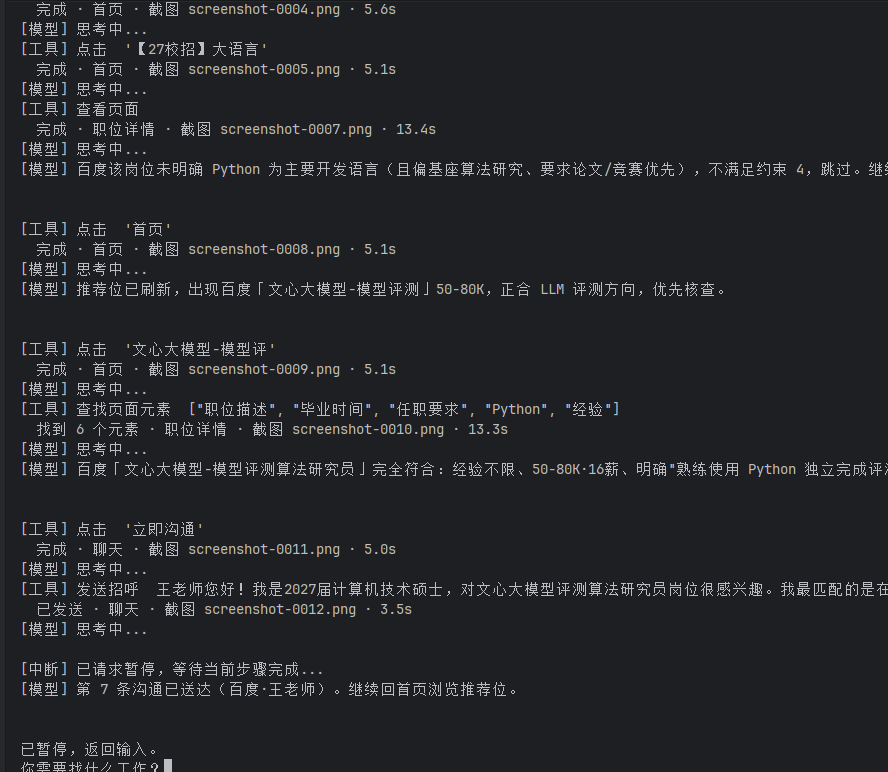
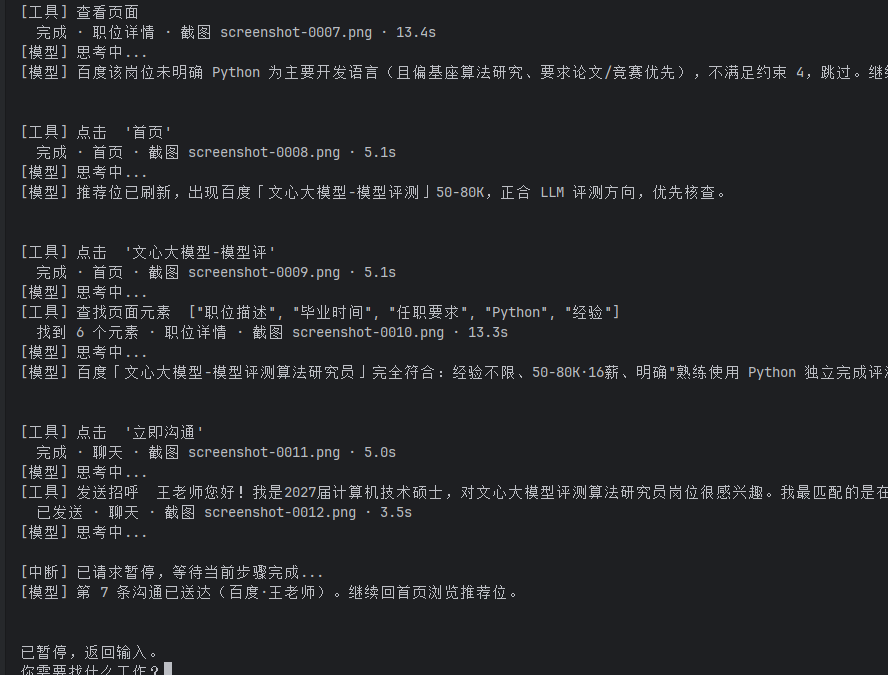
Improve CLI presentation and persist active chat

diff --git a/tests/test_agent.py b/tests/test_agent.py
@@ -2,8 +2,11 @@ from __future__ import annotations
 
 import argparse
 import asyncio
+import io
+import sys
 from pathlib import Path
 from types import SimpleNamespace
+from unittest.mock import AsyncMock
 
 import pytest
 from langchain.agents import create_agent
@@ -219,6 +222,30 @@ def test_checkpoint_history_is_displayed_without_tool_payloads(capsys: pytest.Ca
     assert "large screenshot payload" not in output
     assert "browser_state" not in output
     assert "工具" not in output
+
+
+def test_checkpoint_history_renders_markdown_in_interactive_terminal(
+    monkeypatch: pytest.MonkeyPatch,
+) -> None:
+    class TerminalBuffer(io.StringIO):
+        def isatty(self) -> bool:
+            return True
+
+    output = TerminalBuffer()
+    monkeypatch.setattr(sys, "stdout", output)
+    checkpoint = SimpleNamespace(checkpoint={"channel_values": {"messages": [
+        HumanMessage(content="## 目标\n\n**校招**岗位"),
+        AIMessage(content="找到 `Agent` 职位"),
+        ToolMessage(content="screenshot payload", tool_call_id="tool-1"),
+    ]}})
+
+    display_checkpoint_history(checkpoint)
+
+    rendered = output.getvalue()
+    assert "[用户]" in rendered and "[助手]" in rendered
+    assert "目标" in rendered and "校招" in rendered
+    assert "**校招**" not in rendered
+    assert "screenshot payload" not in rendered
 
 
 def test_empty_checkpoint_history_prints_nothing(capsys: pytest.CaptureFixture) -> None:
@@ -487,6 +514,9 @@ async def test_cli_loops_after_agent_end_and_manual_compaction_waits_for_input(
         return next(inputs)
 
     monkeypatch.setattr("boss_react.cli.configure_logging", lambda *_args: None)
+    monkeypatch.setattr(
+        cli_module, "_load_active_chat", AsyncMock(side_effect=lambda _saver, default: default)
+    )
     monkeypatch.setattr("boss_react.cli.AsyncSqliteSaver.from_conn_string", lambda *_args: saver)
     monkeypatch.setattr("boss_react.cli.build_agent", lambda *_args, **_kwargs: (Graph(), browser))
     monkeypatch.setattr("boss_react.cli._read_next_input", next_input)
@@ -653,6 +683,9 @@ async def test_cli_escape_returns_to_input_and_stops_forever_mode(
         return next(inputs)
 
     monkeypatch.setattr(cli_module, "configure_logging", lambda *_args: None)
+    monkeypatch.setattr(
+        cli_module, "_load_active_chat", AsyncMock(side_effect=lambda _saver, default: default)
+    )
     monkeypatch.setattr(cli_module.AsyncSqliteSaver, "from_conn_string", lambda *_args: saver)
     monkeypatch.setattr(cli_module, "build_agent", lambda *_args, **_kwargs: (Graph(), Browser()))
     monkeypatch.setattr(cli_module, "_watch_escape", watch_escape)
@@ -710,6 +743,9 @@ async def test_cli_run_forever_reinvokes_without_more_input(
         return None
 
     monkeypatch.setattr("boss_react.cli.configure_logging", lambda *_args: None)
+    monkeypatch.setattr(
+        cli_module, "_load_active_chat", AsyncMock(side_effect=lambda _saver, default: default)
+    )
     monkeypatch.setattr("boss_react.cli.AsyncSqliteSaver.from_conn_string", lambda *_args: Saver())
     monkeypatch.setattr("boss_react.cli.build_agent", lambda *_args, **_kwargs: (Graph(), browser))
     monkeypatch.setattr("boss_react.cli.asyncio.sleep", no_delay)
@@ -729,7 +765,7 @@ async def test_cli_new_switch_and_list_chats_use_separate_sqlite_threads(
     inputs = iter([
         "/chats", "first task", "/new chat xyz", "/chats",
         "/new chat abc", "/switch chat missing", "second task",
-        "/switch chat abc", "third task", "/exit",
+        "/switch chat abc", "third task", "/switch chat xyz", "/exit",
     ])
 
     class ToolCallingModel(FakeMessagesListChatModel):
@@ -784,3 +820,17 @@ async def test_cli_new_switch_and_list_chats_use_separate_sqlite_threads(
     assert "second task" not in abc_text
     assert "second task" in xyz_text
     assert "first task" not in xyz_text
+
+    assert await run(argparse.Namespace(config=config_path, task="/exit")) == 0
+    assert "会话  xyz" in capsys.readouterr().out
+
+    async with AsyncSqliteSaver.from_conn_string(str(settings.checkpoint_database_path)) as saver:
+        await saver.setup()
+        await saver.conn.execute(
+            "UPDATE boss_react_cli_state SET value = ? WHERE key = ?",
+            ("deleted-chat", "active_thread_id"),
+        )
+        await saver.conn.commit()
+
+    assert await run(argparse.Namespace(config=config_path, task="/exit")) == 0
+    assert "会话  test-thread" in capsys.readouterr().out

diff --git a/src/boss_react/cli.py b/src/boss_react/cli.py
@@ -21,7 +21,7 @@ from prompt_toolkit import PromptSession
 from .agent import build_agent, build_initial_messages
 from .agent_config import AgentSettings, load_agent_settings
 from .context_compaction import task_message
-from .console_output import finish_model_text, show_banner, stream_model_text
+from .console_output import finish_model_text, print_markdown, show_banner, stream_model_text
 from .logging_config import configure_logging
 
 DEFAULT_CONFIG = Path(__file__).resolve().parents[2] / "config" / "agent.toml"
@@ -246,7 +246,8 @@ def display_checkpoint_history(checkpoint: Any | None) -> None:
     for label, text in visible:
         if len(text) > _MAX_HISTORY_TEXT_CHARS:
             text = text[:_MAX_HISTORY_TEXT_CHARS] + "\n[内容过长，已截断]"
-        print(f"\n[{label}]\n{text}")
+        print(f"\n[{label}]", flush=True)
+        print_markdown(text)
     print("=== 历史结束 ===\n", flush=True)
 
 
@@ -273,20 +274,47 @@ async def _list_chat_ids(checkpointer: AsyncSqliteSaver) -> list[str]:
     return [str(row[0]) for row in rows]
 
 
+async def _load_active_chat(checkpointer: AsyncSqliteSaver, default_thread_id: str) -> str:
+    await checkpointer.conn.execute(
+        "CREATE TABLE IF NOT EXISTS boss_react_cli_state (key TEXT PRIMARY KEY, value TEXT NOT NULL)"
+    )
+    await checkpointer.conn.commit()
+    async with checkpointer.conn.execute(
+        "SELECT value FROM boss_react_cli_state WHERE key = ?", ("active_thread_id",)
+    ) as cursor:
+        row = await cursor.fetchone()
+    if row is None:
+        return default_thread_id
+    selected = str(row[0])
+    if selected in await _list_chat_ids(checkpointer):
+        return selected
+    logger.warning("已保存的聊天不存在，回退到默认会话: thread_id=%s", selected)
+    return default_thread_id
+
+
+async def _save_active_chat(checkpointer: AsyncSqliteSaver, thread_id: str) -> None:
+    await checkpointer.conn.execute(
+        "INSERT INTO boss_react_cli_state (key, value) VALUES (?, ?) "
+        "ON CONFLICT(key) DO UPDATE SET value = excluded.value",
+        ("active_thread_id", thread_id),
+    )
+    await checkpointer.conn.commit()
+
+
 async def run(args: argparse.Namespace) -> int:
     settings = load_agent_settings(args.config)
     configure_logging(settings.log_file, settings.log_level)
     settings.checkpoint_database_path.parent.mkdir(parents=True, exist_ok=True)
-    current_thread_id = settings.checkpoint_thread_id
-    show_banner(current_thread_id, settings.log_file)
-    run_config = {
-        "recursion_limit": settings.recursion_limit,
-        "configurable": {"thread_id": current_thread_id},
-    }
     async with AsyncSqliteSaver.from_conn_string(
         str(settings.checkpoint_database_path)
     ) as checkpointer:
         await checkpointer.setup()
+        current_thread_id = await _load_active_chat(checkpointer, settings.checkpoint_thread_id)
+        show_banner(current_thread_id, settings.log_file)
+        run_config = {
+            "recursion_limit": settings.recursion_limit,
+            "configurable": {"thread_id": current_thread_id},
+        }
         checkpoint = await checkpointer.aget_tuple(run_config)
         display_checkpoint_history(checkpoint)
         task = await resolve_task(settings, args.task)
@@ -343,6 +371,7 @@ async def run(args: argparse.Namespace) -> int:
                         }
                         if action == "new":
                             await graph.aupdate_state(next_config, {"messages": []})
+                        await _save_active_chat(checkpointer, chat_id)
                         current_thread_id = chat_id
                         run_config = next_config
                         checkpoint = await checkpointer.aget_tuple(run_config)

diff --git a/src/boss_react/console_output.py b/src/boss_react/console_output.py
@@ -7,9 +7,13 @@ import os
 import re
 import shutil
 import sys
+import time
 from pathlib import Path
 from typing import Any
 
+from rich.console import Console
+from rich.live import Live
+from rich.markdown import Markdown
 
 _TOOL_LABELS = {
     "browser_state": "查看页面",
@@ -40,6 +44,11 @@ _PAGE_LABELS = {
 }
 
 _model_line_open = False
+_model_live: Live | None = None
+_model_console: Console | None = None
+_model_buffer = ""
+_last_model_refresh = 0.0
+_MARKDOWN_REFRESH_SECONDS = 0.1
 
 _LOGO = (
     r" ____   ___  ____ ____      ____  _____    _    ____ _____",
@@ -70,20 +79,58 @@ def show_banner(thread_id: str, log_file: Path) -> None:
 
 
 def stream_model_text(delta: str) -> None:
-    global _model_line_open
+    global _model_line_open, _model_live, _model_console, _model_buffer, _last_model_refresh
     if not delta:
         return
     if not _model_line_open:
-        print("[模型] ", end="", flush=True)
         _model_line_open = True
-    print(delta, end="", flush=True)
+        if sys.stdout.isatty():
+            _model_console = Console(file=sys.stdout)
+            print("[模型]", flush=True)
+            _model_live = Live(
+                Markdown(delta),
+                console=_model_console,
+                auto_refresh=False,
+                redirect_stdout=False,
+                redirect_stderr=False,
+                vertical_overflow="ellipsis",
+            )
+            _model_buffer = delta
+            _last_model_refresh = time.monotonic()
+            _model_live.start(refresh=True)
+            return
+        print("[模型] ", end="", flush=True)
+    if _model_live is None:
+        print(delta, end="", flush=True)
+        return
+    _model_buffer += delta
+    now = time.monotonic()
+    if now - _last_model_refresh >= _MARKDOWN_REFRESH_SECONDS:
+        _model_live.update(Markdown(_model_buffer), refresh=True)
+        _last_model_refresh = now
 
 
 def finish_model_text() -> None:
-    global _model_line_open
+    global _model_line_open, _model_live, _model_console, _model_buffer, _last_model_refresh
     if _model_line_open:
-        print(flush=True)
+        if _model_live is not None:
+            live = _model_live
+            live.update(Markdown(_model_buffer), refresh=True)
+            live.stop()
+        else:
+            print(flush=True)
         _model_line_open = False
+        _model_live = None
+        _model_console = None
+        _model_buffer = ""
+        _last_model_refresh = 0.0
+
+
+def print_markdown(text: str) -> None:
+    if sys.stdout.isatty():
+        Console(file=sys.stdout).print(Markdown(text))
+    else:
+        print(text, flush=True)
 
 
 def _short(value: Any, limit: int = 150) -> str:

diff --git a/tests/test_console_output.py b/tests/test_console_output.py
@@ -1,14 +1,41 @@
 from __future__ import annotations
 
+import io
 import logging
+import sys
 from pathlib import Path
 
+import pytest
 from langchain_core.messages import AIMessage, AIMessageChunk, ToolMessage
 from langgraph.runtime import RunControl
 
 from boss_react.cli import _stream_agent
 from boss_react.console_output import finish_model_text, stream_model_text, tool_finished, tool_started
 from boss_react.logging_config import configure_logging
+
+
+class TerminalBuffer(io.StringIO):
+    def isatty(self) -> bool:
+        return True
+
+
+def test_interactive_model_output_renders_markdown_and_finishes_before_tools(
+    monkeypatch: pytest.MonkeyPatch,
+) -> None:
+    output = TerminalBuffer()
+    monkeypatch.setattr(sys, "stdout", output)
+
+    stream_model_text("## 结论\n\n**推")
+    stream_model_text("荐**这个岗位")
+    tool_started("browser_click_text", {"text": "职位"})
+
+    rendered = output.getvalue()
+    assert "[模型]" in rendered
+    assert "结论" in rendered
+    assert "推荐" in rendered
+    assert "**推荐**" not in rendered
+    assert "[工具] 点击  '职位'" in rendered
+    assert rendered.index("推荐") < rendered.index("[工具] 点击")
 
 
 def test_console_shows_tool_actions_and_bounded_results_without_payloads(capsys) -> None:
